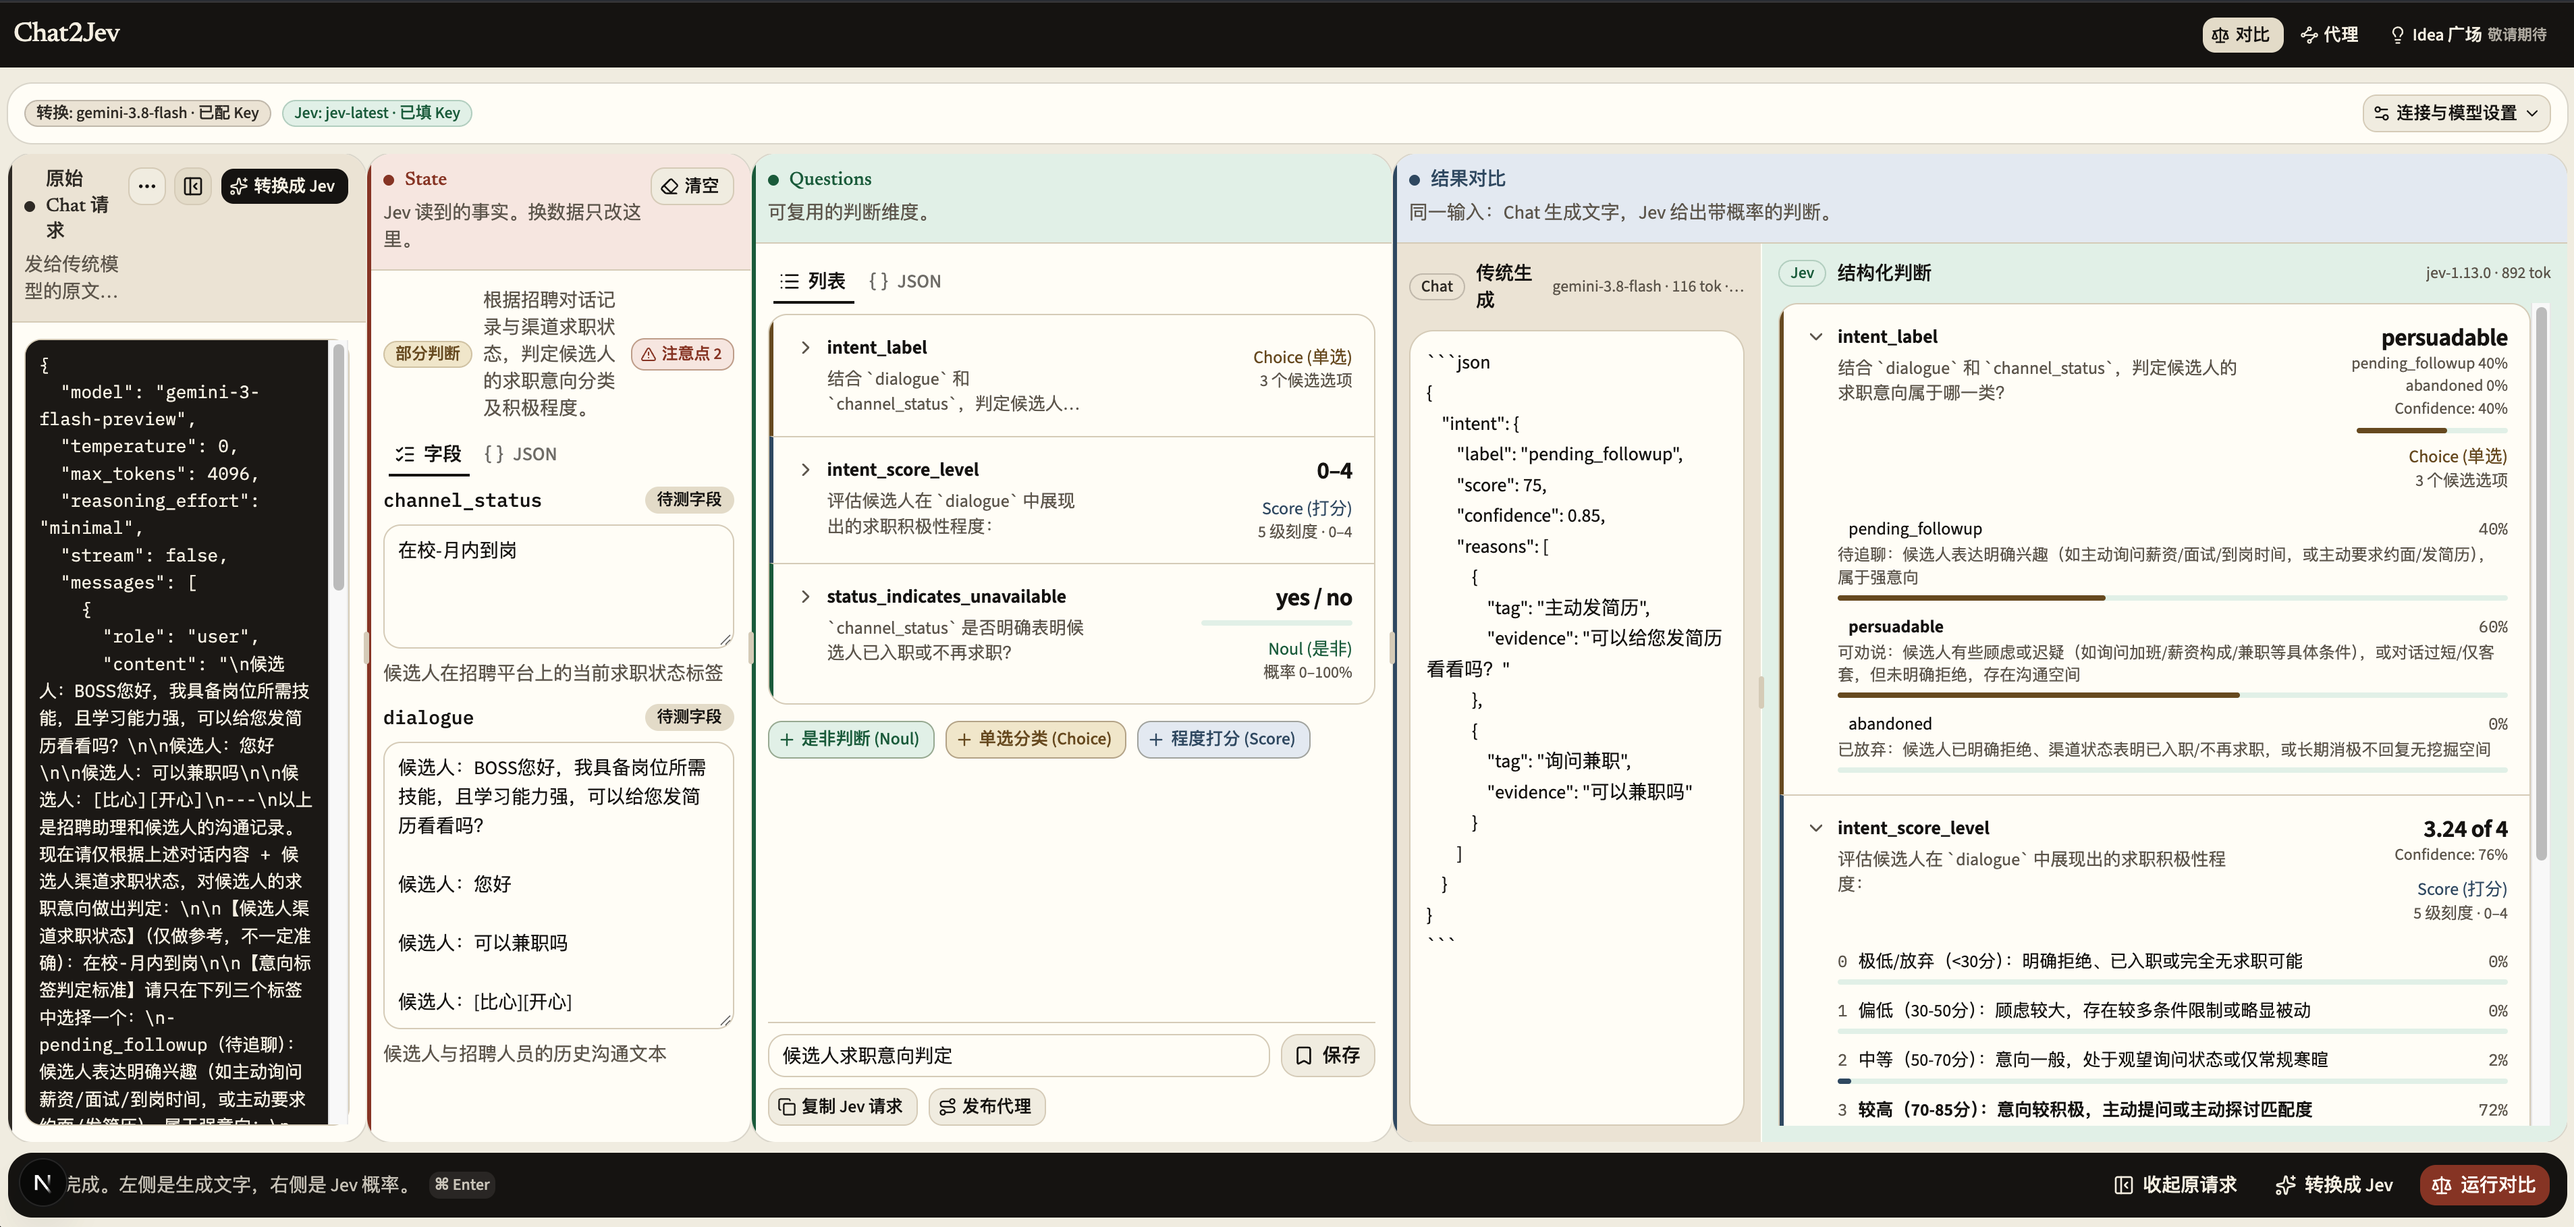
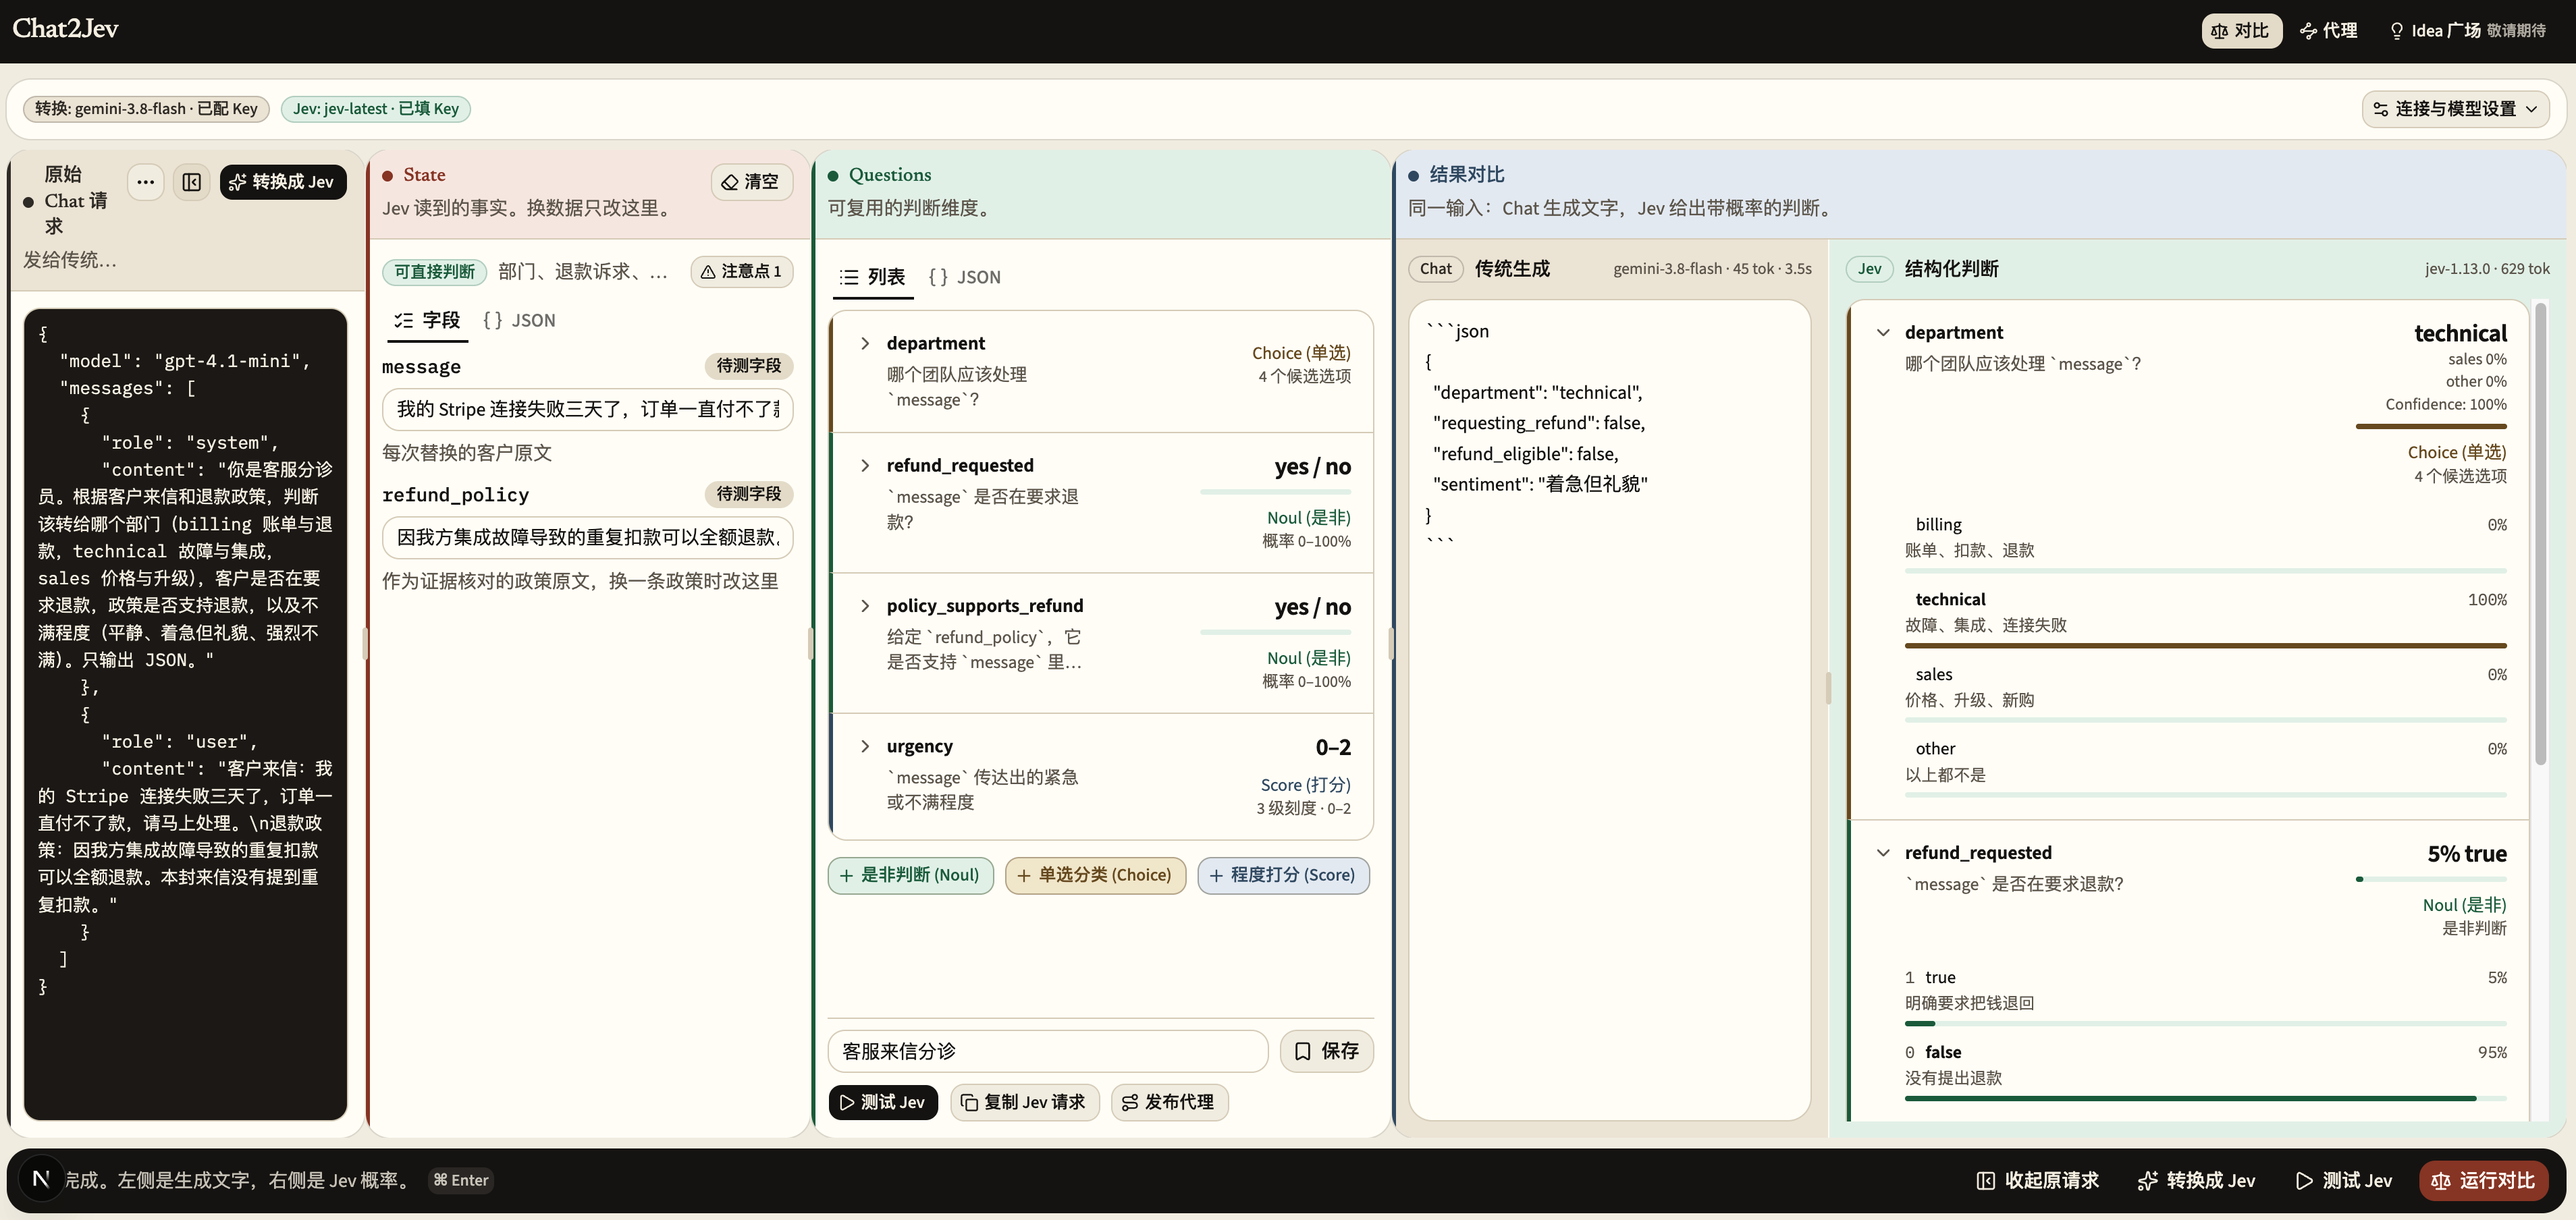
fix: use more relative image

diff --git a/README.md b/README.md
@@ -10,7 +10,7 @@ Chat2Jev is an independent, experimental workbench for local use or deployment i
 
 ![Chat2Jev workbench showing the original Chat request, State, Questions, and a side-by-side comparison of Chat output and Jev judgments](docs/images/chat2jev-preview.png)
 
-The workbench brings the original request, editable State and Questions, and Chat / Jev results into one view. This example shows candidate intent classification, including Jev choice probabilities and scores.
+The workbench brings the original request, editable State and Questions, and Chat / Jev results into one view. This example shows customer support ticket triage, including department selection, refund judgments, and their probabilities.
 
 ## Features
 

diff --git a/README.zh-CN.md b/README.zh-CN.md
@@ -12,7 +12,7 @@
 
 ![Chat2Jev 工作台：原始 Chat 请求、State、Questions，以及 Chat 输出与 Jev 判断结果的并排对比](docs/images/chat2jev-preview.png)
 
-在同一工作台中查看原始请求、编辑 State 和 Questions，并对比 Chat 与 Jev 的结果。图中以候选人求职意向判断为例，展示 Jev 的选项概率与评分。
+在同一工作台中查看原始请求、编辑 State 和 Questions，并对比 Chat 与 Jev 的结果。图中以客服工单分流为例，展示 Jev 对处理部门、退款诉求等问题的判断及其概率。
 
 ## 能做什么
 
